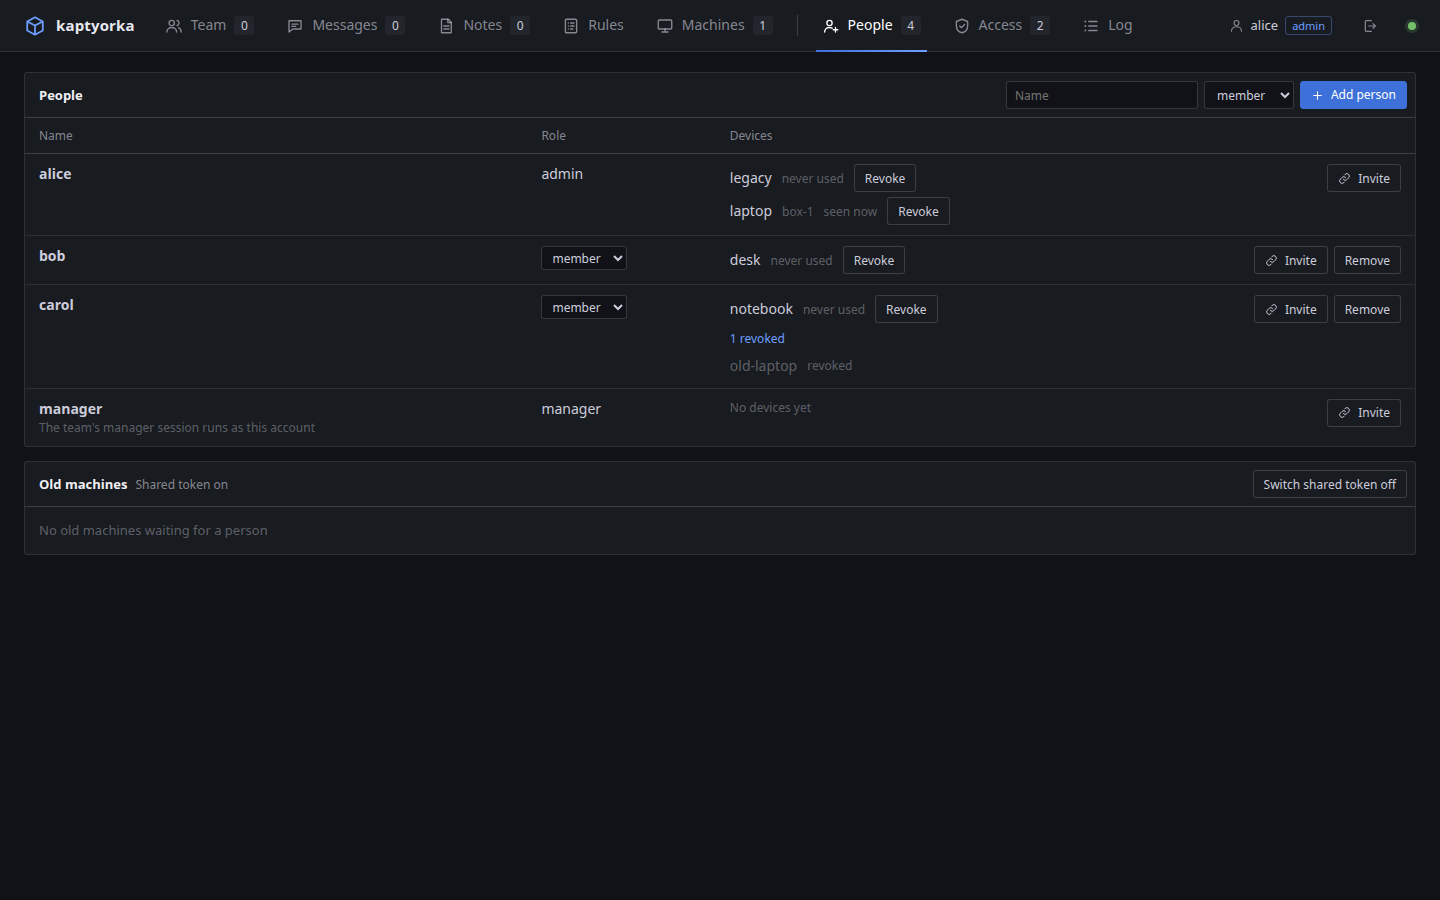
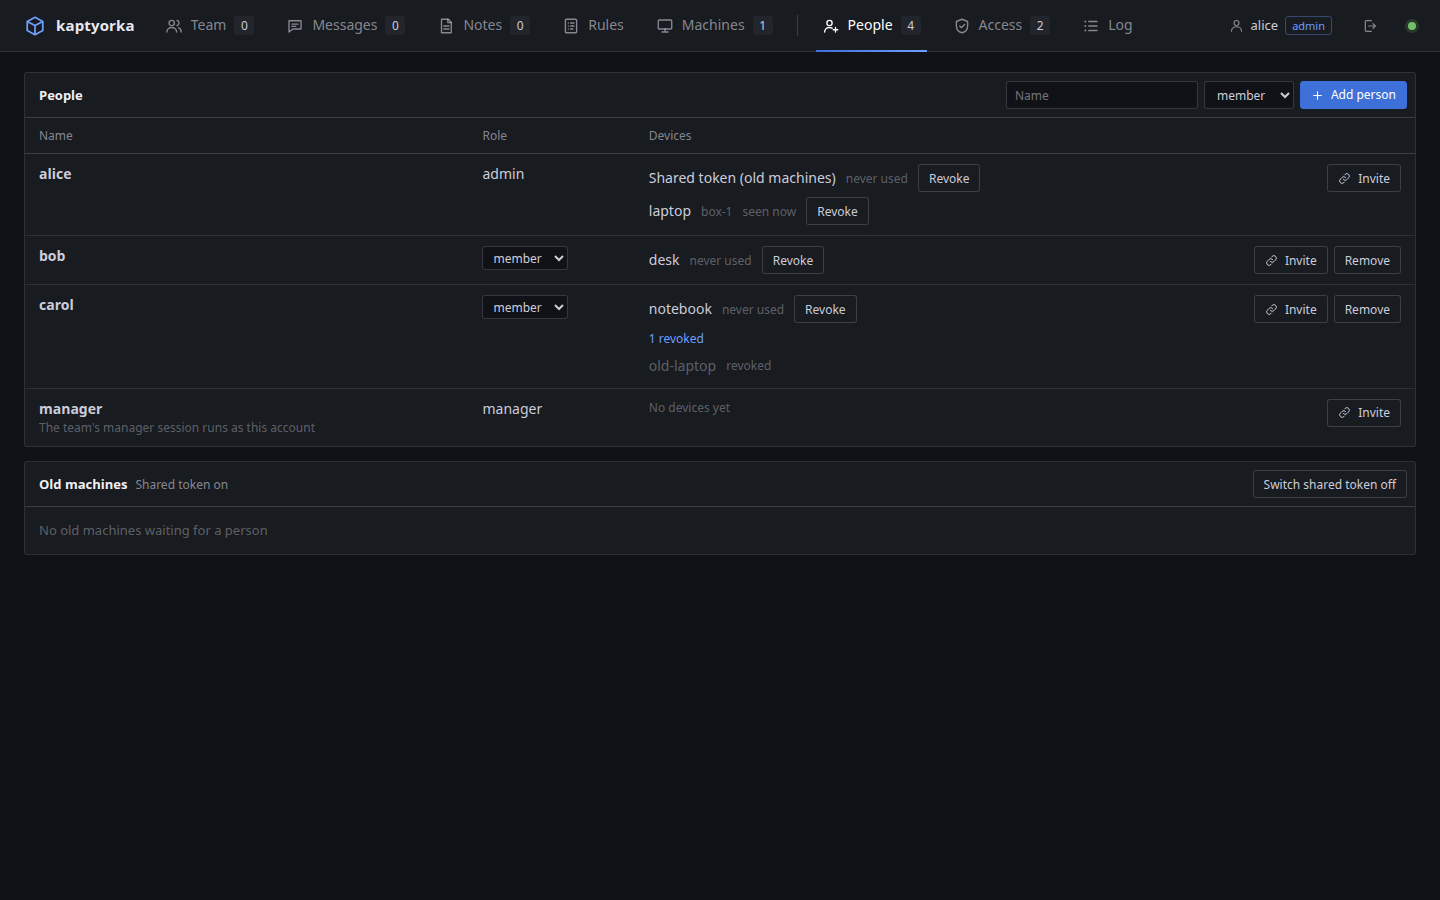
fix(page): Register again keeps the description; name the shared-token device plainly
Claude-Session: https://claude.ai/code/session_01WHiZ1E64m7csjvMWwiGkdu

diff --git a/src/kaptyorka/web/index.html b/src/kaptyorka/web/index.html
@@ -1360,6 +1360,7 @@ tr.archived b { color: var(--dim); }
         }, { title: "The link stops working" })]);
     })));
   }
+  var LEGACY_TITLE = "The device the old shared token logs in as. Revoke it when every machine has its own token.";
   var MANAGER_HINT = "The team's manager session runs as this account";
   function isManagerAccount(p) { return p.name === "manager" && p.role === "manager"; }
   function roleCell(p) {
@@ -1387,7 +1388,7 @@ tr.archived b { color: var(--dim); }
           });
         });
         return el("div", { "class": "dev" + (gone ? " revoked" : "") }, [
-          el("span", { text: d.name }),
+          d.legacy ? el("span", { title: LEGACY_TITLE, text: "Shared token (old machines)" }) : el("span", { text: d.name }),
           d.host ? el("small", { text: d.host }) : null,
           el("small", { title: d.last_used ? full(d.last_used) : null,
                         text: gone ? "revoked" : d.last_used ? "seen " + ago(Date.now() / 1000 - d.last_used) : "never used" }),
@@ -1558,7 +1559,7 @@ tr.archived b { color: var(--dim); }
         el("td", null, [el("b", { text: p.name }), el("div", { "class": "hint", text: p.description || "" })]),
         el("td", null, [el("span", { "class": "hint", text: "Notes kept, read-only for you" })]),
         el("td", { "class": "c-act" }, [button("Register again", "", function () {
-          quiet(act("grant-err", "/api/projects", { name: p.name }));
+          quiet(act("grant-err", "/api/projects", { name: p.name, description: p.description || "" }));
         }, { title: "Its notes come back; nobody has a role in it yet" })])
       ]));
     });

diff --git a/tests/test_page_people.py b/tests/test_page_people.py
@@ -428,3 +428,26 @@ def test_page_empty_states():
             "No team skills. Upload them with kaptyorka rules push <folder>.",
             "No proposals. Agents file one when their person corrects them the same way twice."):
         assert text in html, text
+
+
+def test_page_review_fixes():
+    html = page_html()
+    # Register again keeps the archived project's description
+    assert '"/api/projects", { name: p.name, description: p.description || "" }' in html
+    # the shared-token device is not shown by its internal name
+    assert 'd.legacy ? el("span", { title: LEGACY_TITLE, text: "Shared token (old machines)" })' in html
+    assert "The device the old shared token logs in as. Revoke it when every machine has its own token." in html
+
+
+def test_register_again_keeps_description(app):
+    from kaptyorka import admin_ops
+    s = app.store
+    s.project_register("proj", "the web shop")
+    admin_ops.project_remove(s, "proj", s.authenticate(app.tokens["boss"]))
+    gone = get(app, "boss", "/api/feed")["archived_projects"]
+    assert [p["description"] for p in gone if p["name"] == "proj"] == ["the web shop"]
+    # what the page's Register again sends
+    status, _ = post(app, "boss", "/api/projects", {"name": "proj", "description": gone[0]["description"]})
+    assert status == 204
+    proj = next(p for p in get(app, "boss", "/api/feed")["projects"] if p["name"] == "proj")
+    assert proj["description"] == "the web shop"
